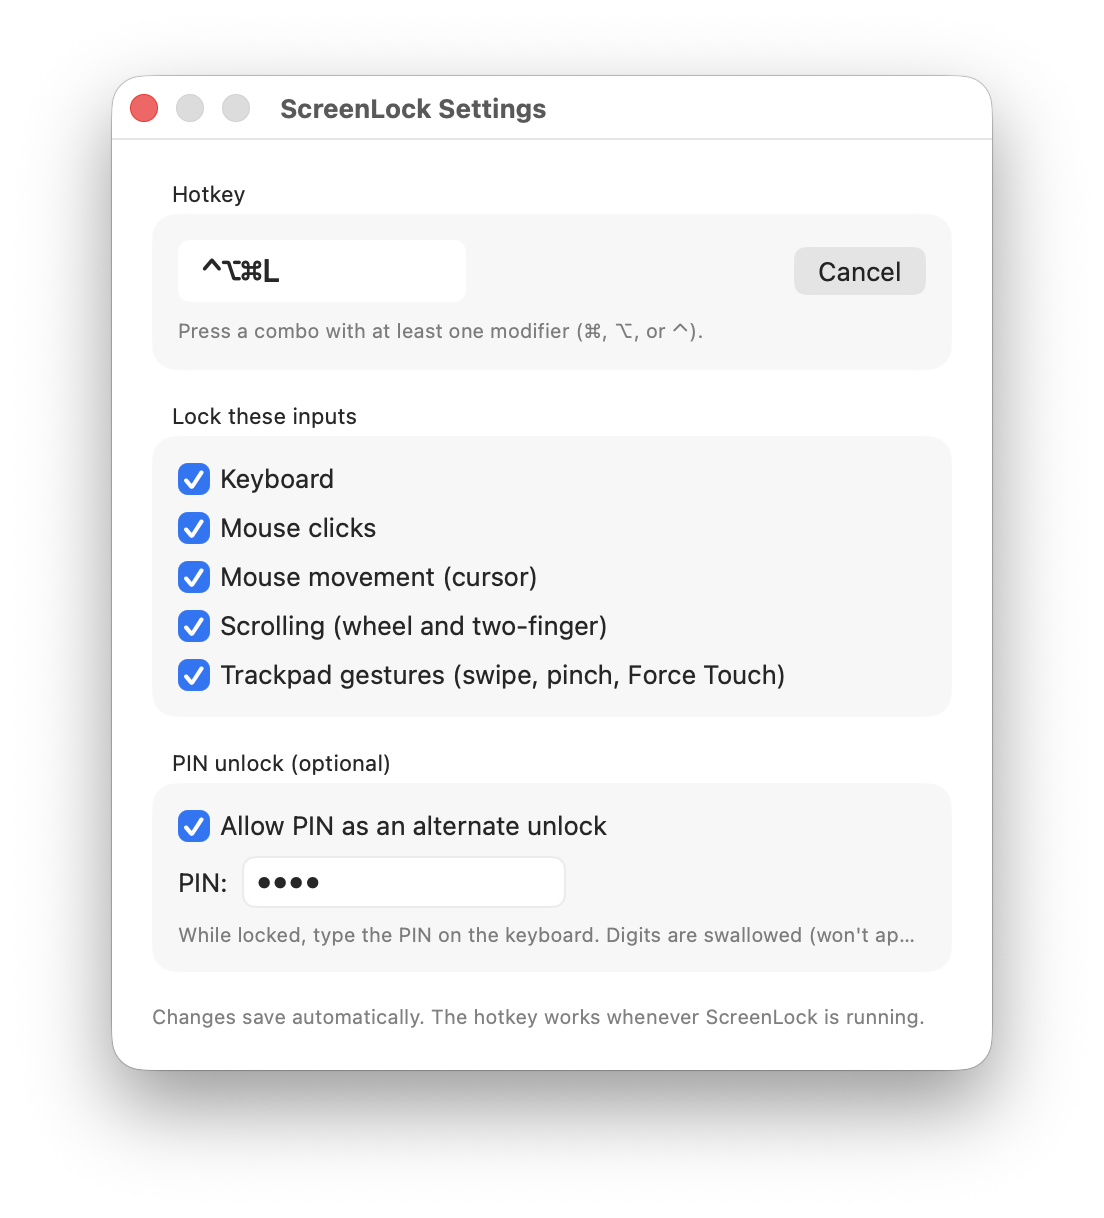
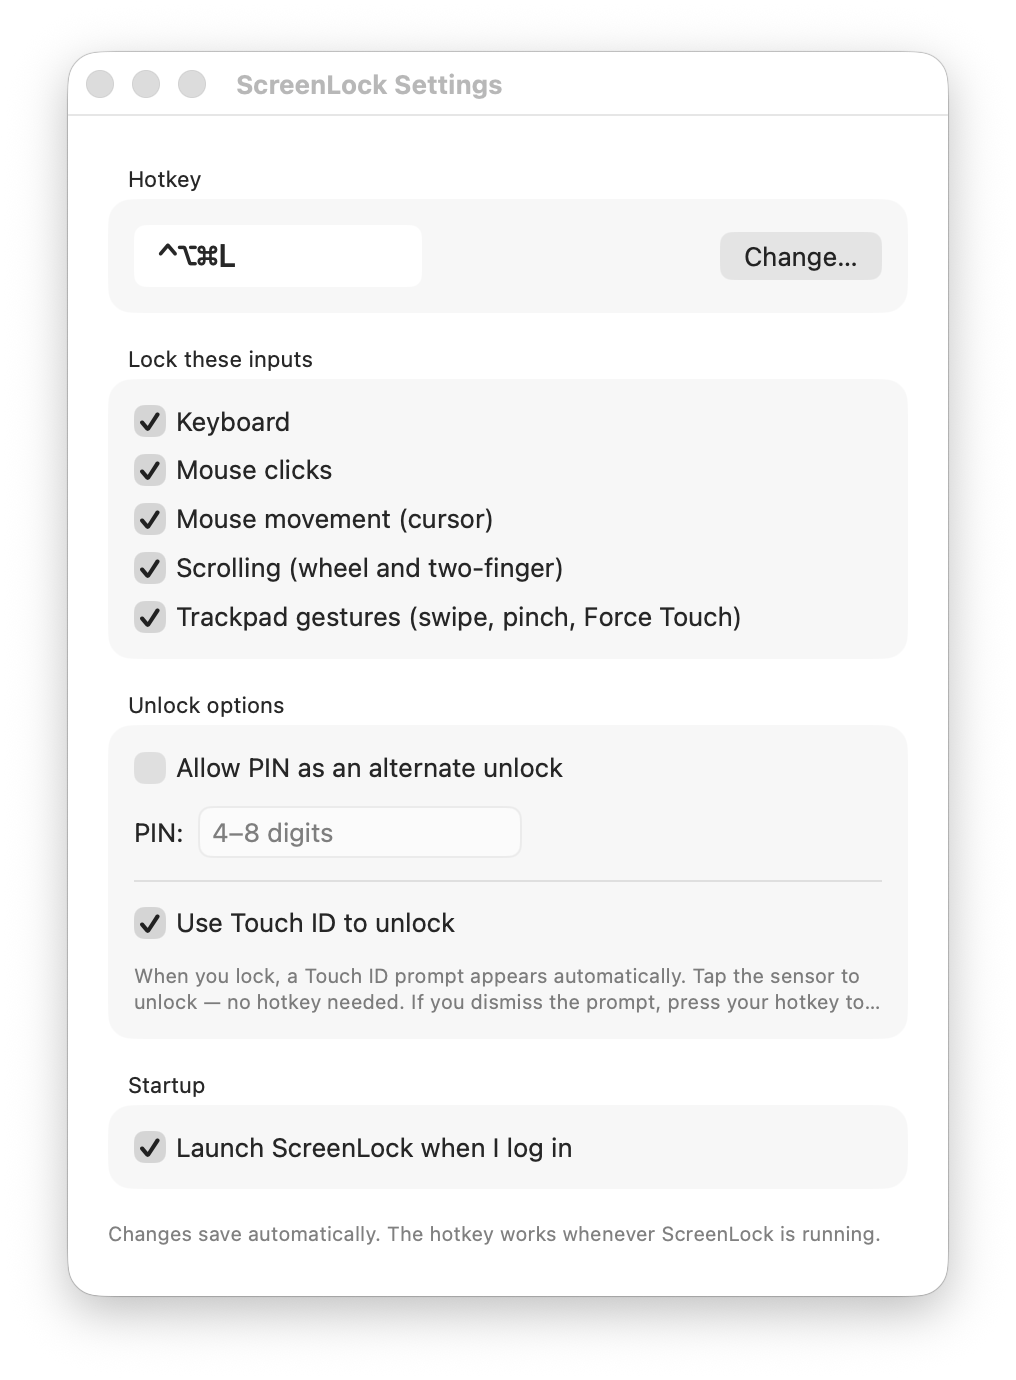
Update screenshots + captions to 0.4.x state
Replace the screenshots taken at 0.3.x:
- Settings (1016x1380 retina): now shows Unlock options section
  with PIN + Touch ID toggle, and new Startup section with
  Launch at Login
- Menu dropdown (718x444 retina): hotkey-display line removed
  per 0.4.2 (it was a security leak)

Update alt text and caption to mention Touch ID + Launch at
Login. Update width/height attributes to match new natural
aspect ratios (no CLS).

Changed region(s): [[0.061, 0.0312, 0.9459, 0.9672]]

diff --git a/index.html b/index.html
@@ -161,11 +161,11 @@
         <h2>Here's what it looks like</h2>
         <div class="screens-grid">
             <figure class="screens-item">
-                <img src="assets/screenshot-settings.png" alt="ScreenLock Settings window showing the hotkey, lock category toggles for keyboard / mouse / scrolling / gestures, and PIN unlock section" width="552" height="609" loading="lazy">
-                <figcaption>Toggle exactly what gets locked. Customize your hotkey. Set a PIN.</figcaption>
+                <img src="assets/screenshot-settings.png" alt="ScreenLock Settings window showing the hotkey, per-category lock toggles (keyboard, mouse clicks and movement, scrolling, trackpad gestures), Unlock options (PIN and Touch ID), and Startup section with Launch at Login" width="508" height="690" loading="lazy">
+                <figcaption>Pick exactly what gets locked. Customize hotkey, PIN, Touch ID, and launch-at-login from one window.</figcaption>
             </figure>
             <figure class="screens-item">
-                <img src="assets/screenshot-menu.png" alt="ScreenLock menu bar dropdown showing Lock Now, Lock for 15/30/60/120 minutes submenu, hotkey, Settings, Check for Updates, About, and Quit options" width="359" height="246" loading="lazy">
+                <img src="assets/screenshot-menu.png" alt="ScreenLock menu bar dropdown showing Lock Now, Lock for 15/30/60/120 minutes submenu, Settings, Check for Updates, About, and Quit options" width="359" height="222" loading="lazy">
                 <figcaption>Lives in your menu bar. Lock instantly or pick a timer.</figcaption>
             </figure>
         </div>